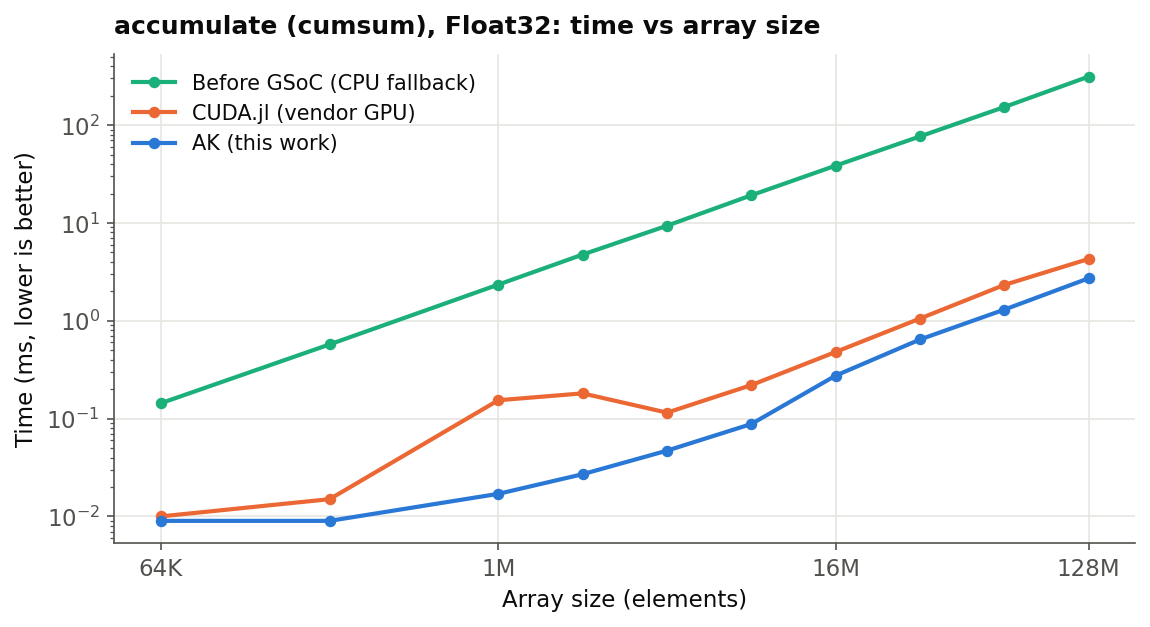
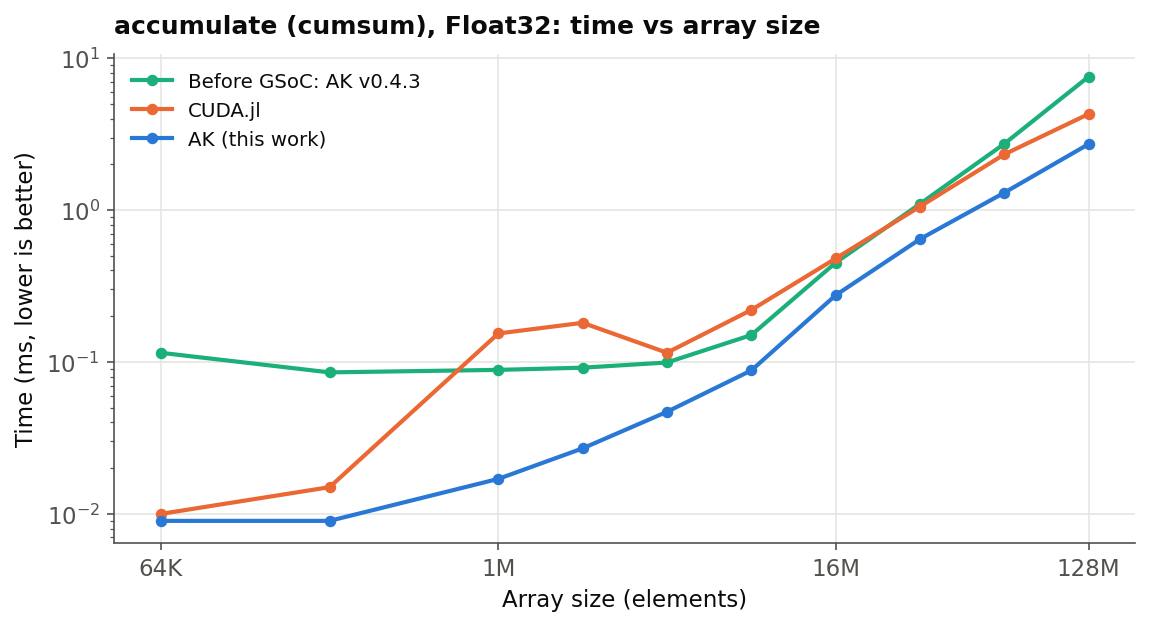
Use real pre-GSoC AK v0.4.3 baseline for before/after charts

diff --git a/post/2026-10-14-gsoc-portability/index.md b/post/2026-10-14-gsoc-portability/index.md
@@ -5,9 +5,10 @@ abstract = """
   This Google Summer of Code 2026 project added the data-parallel primitives that
   the Julia GPU stack was missing and tuned them to serve as the shared
   implementation for every backend. The work was merged as 15 pull requests in
-  AcceleratedKernels.jl 0.5. A benchmark on an NVIDIA RTX 5080 shows each operation
-  across three stages: the pre-GSoC CPU fallback, the existing CUDA.jl GPU path, and
-  the new AcceleratedKernels.jl kernels."""
+  AcceleratedKernels.jl 0.5. Each operation is benchmarked on an NVIDIA RTX 5080 against
+  the pre-GSoC AK release and the CUDA.jl vendor path, showing real speedups where a
+  better algorithm applies, new functionality where AK had nothing before, and parity
+  on the bandwidth-bound operations."""
 +++
 
 {{abstract}}
@@ -72,93 +73,103 @@ atomic histograms, chunked scatter), added a `BitonicSort` network for short sli
 and added a segmented `RadixSort` path for sorting along `dims` whose cost depends
 little on slice length. The `Auto()` selector chooses between them per input.
 
-**Benchmarking.** Each operation was measured three ways on the same data, to show the
-state of the stack before this work and after it. The GPU runs were on an NVIDIA RTX
-5080, timed on the device with `CUDA.@elapsed`, taking the minimum of 12 runs, warmed,
+**Benchmarking.** Each operation was measured on the same data on an NVIDIA RTX 5080,
+timed on the device with `CUDA.@elapsed`, taking the minimum of 12 runs, warmed,
 refreshing the input each iteration for mutating operations, and using AK's default
-settings with no per-device tuning. The CPU runs used single-threaded Julia on the
-host, timed with the minimum of a few warmed runs. The results per operation follow.
+settings with no per-device tuning. To show the effect of the work honestly, each
+operation is compared against the state of AcceleratedKernels before the project (the
+v0.4.3 release, profiled on the same machine) and against the CUDA.jl vendor path. The
+results per operation follow.
 
 ## Results by operation
 
 In every chart, lower time is better, and both axes use a logarithmic scale unless
-noted. The three series read left to right as the history of the operation:
+noted. The series are:
 
-- **Before GSoC (CPU fallback):** the result on a GPU backend that had no kernel for
-  the operation. Before this work, several of these operations had no portable GPU
-  implementation in the shared layer, so that case fell back to single-threaded CPU
-  execution (or failed outright). This line is that CPU fallback, and it marks the
-  starting point the project improved on.
-- **CUDA.jl (vendor GPU):** the GPU implementation that already shipped for CUDA,
-  reached by calling the standard function (`sort!`, `sortperm`, `cumsum!`, `sum`,
-  `findall`, `reverse!`, `map!`) on a `CuArray`, through CUDA.jl and GPUArrays.jl.
-- **AK (this work):** the AcceleratedKernels.jl kernel added during this project, which
-  is the single portable implementation every backend can now use.
+- **Before GSoC (AK v0.4.3):** the state of AcceleratedKernels before this work. For
+  the operations AK already had (`sort`, `sortperm`, `reduce`, `accumulate`, `map`, and
+  reduction along `dims`), this is the pre-GSoC AK kernel. For `reverse` and `findall`,
+  AK had no kernel at all before this project, so there is no pre-GSoC AK line and the
+  before-state is the CUDA.jl path shown instead.
+- **CUDA.jl:** the vendor GPU implementation that already shipped, reached by calling
+  the standard function on a `CuArray` (through CUDA.jl and GPUArrays.jl).
+- **AK (this work):** the current AcceleratedKernels.jl kernel.
 
-So the three lines show the path from the pre-GSoC fallback, to the existing vendor GPU
-code, to the portable AK kernels.
+Being candid about the result: pre-GSoC AK was already a capable library, so for some
+operations the honest outcome is a clear speedup, for others it is new functionality
+that did not exist before, and for the bandwidth-bound operations it is parity with no
+regression. Each case is called out below.
 
 ### Sort
 
-For a flat `Int32` array, `AK Auto` is about 5 to 7 times faster than the CUDA.jl sort
-across the mid to large sizes, and the explicit `RadixSort` reaches about 15 times
-faster at 128M elements. The gap grows with size, because the comparison sort in
-CUDA.jl grows faster than the radix path.
+Pre-GSoC AK already had a `MergeSort` that was well ahead of the CUDA.jl sort (about 6
+to 7 times faster at large sizes). The contribution here is the new `RadixSort`, which
+is about twice as fast as the old `MergeSort` on large integer arrays (at 128M `Int32`,
+83 ms for `MergeSort` versus 39 ms for `RadixSort`), plus a `BitonicSort` for short
+slices and the `Auto` selector. `Auto` currently tracks the merge path at these `Int32`
+sizes, so `RadixSort` is the fast option to pick explicitly.
 
-{{img "sort.png" "Flat Int32 sort time versus array size for CUDA.jl, AK Auto, and AK RadixSort"}}
+{{img "sort.png" "Flat Int32 sort time versus array size: pre-GSoC MergeSort, CUDA.jl, AK Auto, and AK RadixSort"}}
 
 ### sortperm
 
-The CUDA.jl `sortperm` is slow, so the portable path shows a large difference here,
-roughly 10 to 25 times faster depending on size.
+`sortperm` is faster than pre-GSoC AK by about 1.5 times at large sizes (191 ms to 125
+ms at 128M `Int32`), and both are far ahead of the CUDA.jl `sortperm`, which is slow on
+the GPU.
 
-{{img "sortperm.png" "Flat Int32 sortperm time versus array size for CUDA.jl and AK Auto"}}
+{{img "sortperm.png" "Flat Int32 sortperm time versus array size: pre-GSoC AK, CUDA.jl, and AK"}}
 
 ### accumulate
 
-For a `Float32` cumulative sum, AK is about 1.6 to 9 times faster than the CUDA.jl
-scan, with the larger difference at the mid sizes.
+The scan rework is a clear win. The `Float32` cumulative sum is about 2 to 3 times
+faster than pre-GSoC AK (7.6 ms to 2.7 ms at 128M), and faster than the CUDA.jl scan
+across sizes.
 
-{{img "accumulate.png" "Float32 cumsum time versus array size for CUDA.jl and AK"}}
+{{img "accumulate.png" "Float32 cumsum time versus array size: pre-GSoC AK, CUDA.jl, and AK"}}
 
 ### reduce and mapreduce
 
 A whole-array reduction reads the input a fixed number of times, so it is limited by
-memory bandwidth. AK and CUDA.jl are at parity here, and within measurement noise AK is
-slightly slower at a few mid sizes.
+memory bandwidth. It was already at that limit in pre-GSoC AK, so the result is parity:
+the three lines sit together, with a slight mid-size dip in the current version that is
+tracked in [#135](https://github.com/JuliaGPU/AcceleratedKernels.jl/issues/135).
 
-{{img "reduce.png" "Whole-array Float32 reduce time versus array size for CUDA.jl and AK"}}
+{{img "reduce.png" "Whole-array Float32 reduce time versus array size: pre-GSoC AK, CUDA.jl, and AK"}}
 
-Reduction along a dimension has more room, since the work can be organized to read
-memory in a coalesced order. For `dims=2` AK is faster on most shapes, by up to about
-3 times, and at parity or slightly slower on a few.
+Reduction along a dimension is close to the pre-GSoC path per shape; PR #83 mainly
+widened which dimensions and shapes are handled rather than changing the per-shape time,
+and the result stays ahead of the CUDA.jl `dims` reduction on most shapes.
 
-{{img "mapreduce_dims.png" "mapreduce along dims=2 time by array shape for CUDA.jl and AK"}}
+{{img "mapreduce_dims.png" "mapreduce along dims=2 time by array shape: pre-GSoC AK, CUDA.jl, and AK"}}
 
 ### findall
 
-Built as a scan-based stream compaction, AK is about 2 to 5 times faster than the
-CUDA.jl `findall` across result densities.
+`findall` did not exist in AK before this project; it was added as a scan-based stream
+compaction. The chart compares it against the CUDA.jl `findall` you would have used
+instead, which it matches or slightly beats across densities.
 
-{{img "findall.png" "findall time versus array size at density 0.5 for CUDA.jl and AK"}}
+{{img "findall.png" "findall time versus array size at density 0.5: CUDA.jl (before) and AK"}}
 
 ### reverse
 
-`reverse` is bandwidth-limited, so AK and the CUDA.jl `reverse!` are at parity.
+`reverse` was also new to AK. It is bandwidth-limited, so it sits at parity with the
+CUDA.jl `reverse!` that was the only option before.
 
-{{img "reverse.png" "Flat Int32 reverse time versus array size for CUDA.jl and AK"}}
+{{img "reverse.png" "Flat Int32 reverse time versus array size: CUDA.jl (before) and AK"}}
 
 ### map
 
-`map` is also bandwidth-limited, and AK is at parity with the CUDA.jl `map!`.
+Single-source `map` is bandwidth-limited and sits at parity with pre-GSoC AK and the
+CUDA.jl `map!`. The new capability here is multi-source `map` and `map!`, which did not
+exist before.
 
-{{img "map.png" "Float32 map time versus array size for CUDA.jl and AK"}}
+{{img "map.png" "Float32 map time versus array size: pre-GSoC AK, CUDA.jl, and AK"}}
 
-The pattern across the operations is consistent. The compute-bound operations (`sort`,
-`sortperm`, `accumulate`, `findall`, and reduction along a dimension) are faster
-because a work-efficient algorithm helps, while the bandwidth-bound operations
-(`reduce`, `reverse`, `map`) are at parity, which is the expected result when the
-kernel already reads the input at the memory bandwidth limit.
+Taken together, the honest summary is: a real speedup where a better algorithm applies
+(`RadixSort`, the faster scan behind `accumulate`, and `sortperm`), new functionality
+where AK had nothing before (`findall`, `reverse`, `BitonicSort`, sorting and reducing
+along `dims`, multi-source `map`), and parity with no regression on the bandwidth-bound
+operations (`reduce`, `map`), which already ran at the memory limit.
 
 ## What got merged upstream
 
